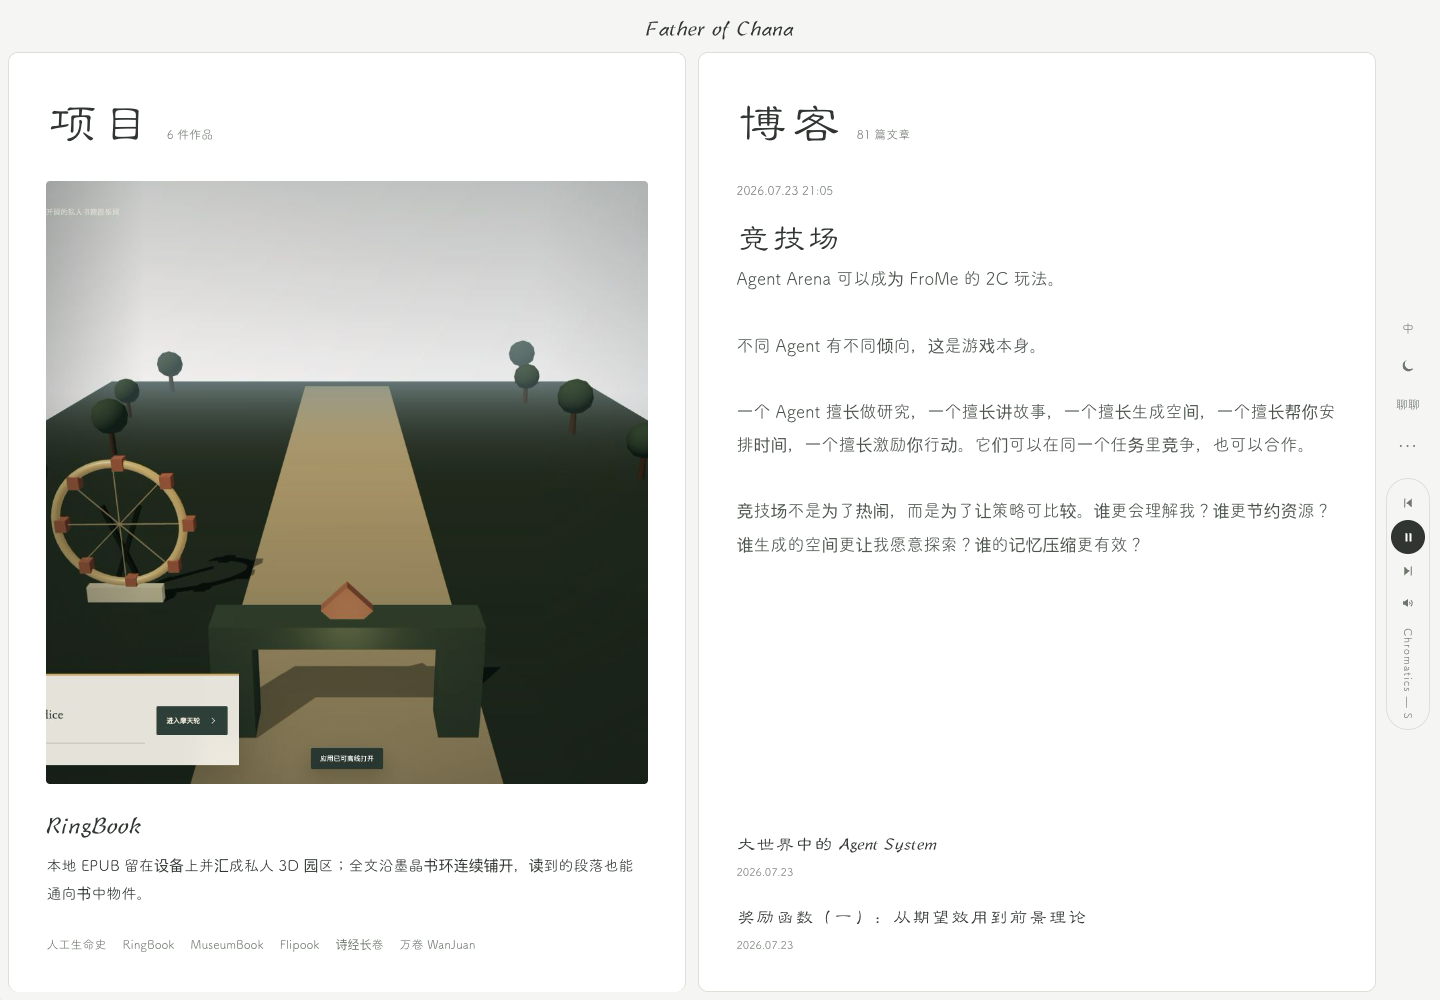
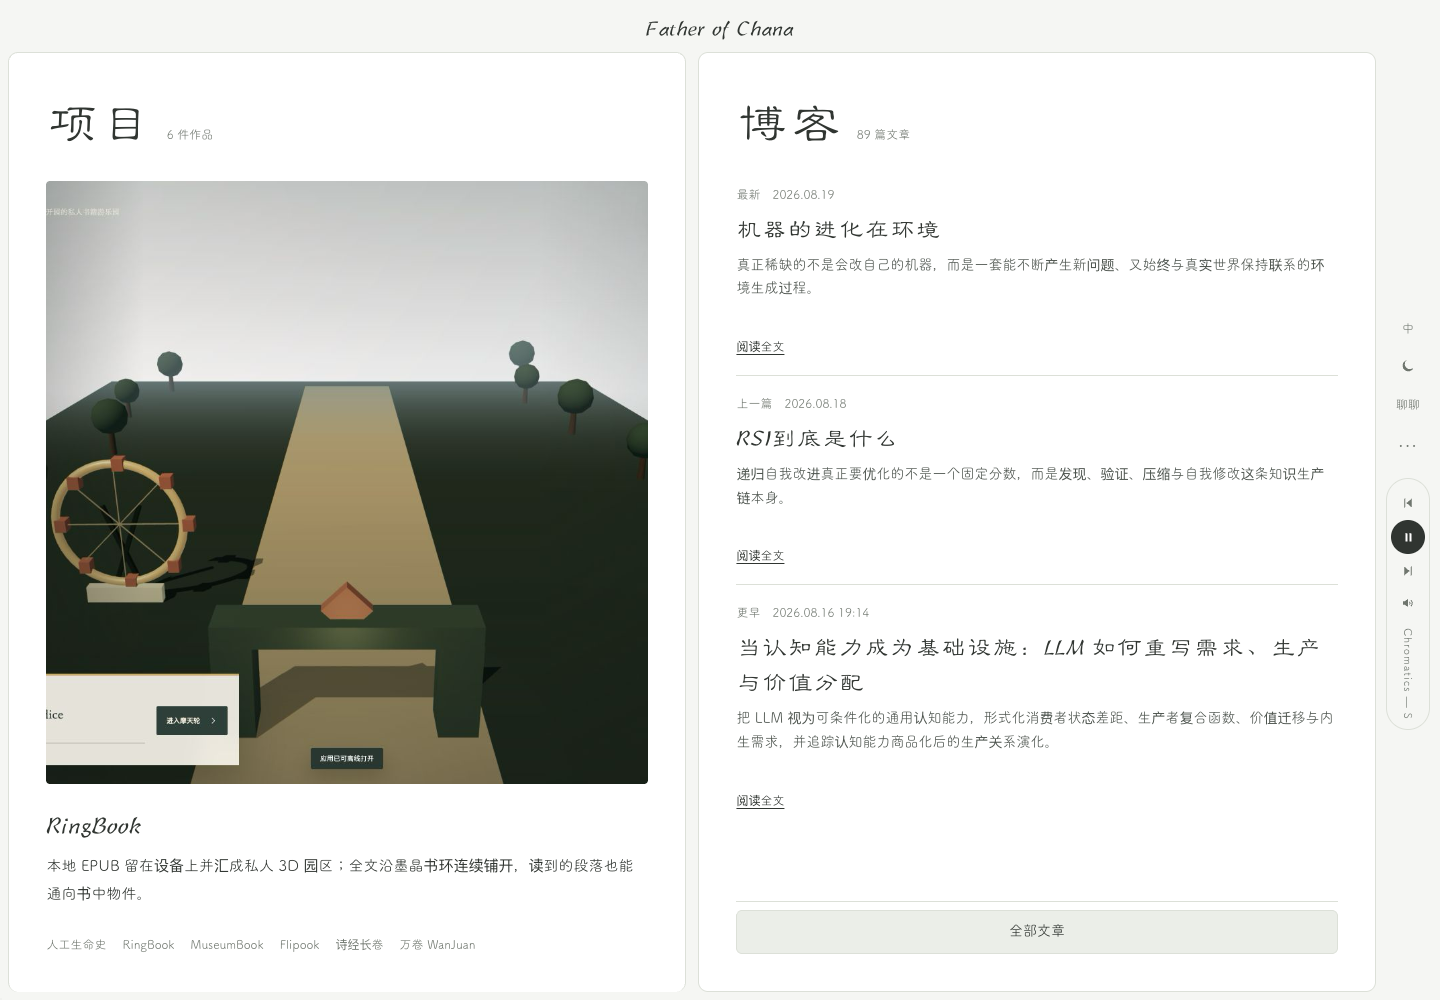
Unify homepage article previews and separate the full index (#20)

diff --git a/src/components/FatherSpread.css b/src/components/FatherSpread.css
@@ -148,9 +148,9 @@ body:has(.father-spread) .site-ai-chat { display: none; }
     text-decoration: none;
     transition: border-color 160ms ease;
 }
-.father-entry:hover { border-color: var(--desk-muted); }
-.father-entry-collection, .father-article-preview { display: block; color: inherit; text-decoration: none; }
-.father-article-preview:hover h3 { text-decoration: underline; text-decoration-thickness: 1px; text-underline-offset: 5px; }
+.father-entry-projects:hover { border-color: var(--desk-muted); }
+.father-entry-articles .father-article-preview { display: block; min-width: 0; color: inherit; text-decoration: none; overflow-wrap: anywhere; }
+.father-entry-articles .father-article-preview:hover h3 { text-decoration: underline; text-decoration-thickness: 1px; text-underline-offset: 5px; }
 .father-entry-heading { display: flex; align-items: baseline; gap: 14px; margin-bottom: 28px; }
 .father-spread .father-entry h2,
 .father-spread .father-entry h3 {
@@ -203,28 +203,79 @@ body:has(.father-spread) .site-ai-chat { display: none; }
     font-size: 12px;
     line-height: 1.6;
 }
-.father-entry-writing { flex: 1; min-height: 0; overflow: hidden; }
-.father-spread .father-entry .father-entry-date {
-    margin: 0 0 12px;
+.father-entry-articles > .father-entry-heading { flex: none; flex-wrap: wrap; }
+.father-entry-article-previews {
+    flex: 1;
+    min-height: 0;
+    min-width: 0;
+    overflow-y: auto;
+    overscroll-behavior-y: contain;
+    padding: 4px;
+    margin-inline: -4px;
+}
+.father-entry-article-list { list-style: none; margin: 0; padding: 0; }
+.father-entry-article-list > li { margin: 0; padding: 18px 0; }
+.father-entry-article-list > li:first-child { padding-top: 0; }
+.father-entry-article-list > li + li { border-top: 1px solid var(--desk-line); }
+.father-entry-article-meta {
+    display: flex;
+    flex-wrap: wrap;
+    align-items: baseline;
+    gap: 3px 12px;
+    margin-bottom: 8px;
     color: var(--desk-muted);
     font-size: 12px;
     line-height: 1.5;
 }
-.father-spread .father-entry-writing h3 { font-size: clamp(25px, 2.4vw, 36px); line-height: 1.5; }
-.father-entry-excerpt {
+.father-entry-article-meta .father-entry-date { white-space: nowrap; }
+.father-spread .father-entry-articles .father-article-preview h3 { font-size: 25px; line-height: 1.4; }
+.father-entry-articles .father-entry-excerpt {
     display: -webkit-box;
     -webkit-box-orient: vertical;
-    -webkit-line-clamp: 10;
-    white-space: pre-line;
-    margin: 22px 0 0;
+    -webkit-line-clamp: 3;
+    min-height: 5.1em;
+    max-height: 5.1em;
+    margin: 8px 0;
     overflow: hidden;
-    font-size: 17px;
-    line-height: 1.95;
+    color: var(--desk-text);
+    font-size: 14px;
+    line-height: 1.7;
 }
-.father-entry-article-list { flex: none; display: grid; gap: 20px; margin-top: 28px; }
-.father-spread .father-entry-article-list h3 { font-size: 19px; line-height: 1.6; }
-.father-spread .father-entry-article-list .father-entry-date { margin: 6px 0 0; font-size: 11px; }
-.father-entry-empty { color: var(--desk-muted); font-size: 15px; }
+/* Keep complete formulas in the renderer, within the excerpt's visual clamp. */
+.father-entry-excerpt .father-math-display { display: inline; overflow: visible; }
+.father-entry-excerpt .katex-display { display: inline; margin: 0; }
+.father-entry-excerpt .katex-display > .katex { display: inline; white-space: normal; }
+.father-entry-read {
+    display: inline-block;
+    color: var(--desk-ink);
+    font-size: 12px;
+    line-height: 1.6;
+    text-decoration: underline;
+    text-decoration-thickness: 1px;
+    text-underline-offset: 3px;
+}
+.father-entry-articles-footer {
+    flex: none;
+    margin-top: 12px;
+    padding-top: 8px;
+    border-top: 1px solid var(--desk-line);
+}
+.father-entry-articles .father-entry-all-articles {
+    display: block;
+    width: 100%;
+    min-height: 44px;
+    padding: 8px 12px;
+    border: 1px solid var(--desk-line);
+    border-radius: 6px;
+    background: var(--desk-hover);
+    color: var(--desk-ink);
+    font-size: 14px;
+    line-height: 1.5;
+    text-align: center;
+    overflow-wrap: anywhere;
+}
+.father-entry-articles .father-entry-all-articles:hover { border-color: var(--desk-muted); }
+.father-entry-empty { color: var(--desk-muted); font-size: 14px; overflow-wrap: anywhere; }
 
 .father-navigation {
     grid-column: 1;
@@ -554,10 +605,7 @@ body:has(.father-spread) .site-ai-chat { display: none; }
     .father-entry { padding: 24px; }
     .father-entry-heading { margin-bottom: 20px; }
     .father-entry-project-preview { gap: 14px; }
-    .father-entry-project-list, .father-entry-article-list { margin-top: 20px; }
-    .father-entry-excerpt { -webkit-line-clamp: 6; font-size: 15px; }
-    .father-entry-article-list { gap: 12px; }
-    .father-spread .father-entry-article-list h3 { font-size: 17px; }
+    .father-entry-project-list { margin-top: 20px; }
     .father-side { gap: 8px; }
     .father-rail { gap: 0; }
     .father-rail button, .father-rail a { min-height: 32px; }
@@ -566,7 +614,6 @@ body:has(.father-spread) .site-ai-chat { display: none; }
 @media (max-width: 1080px) {
     .father-entry { padding: 24px; }
     .father-entry-heading { gap: 10px; }
-    .father-entry-excerpt { font-size: 16px; }
     .father-jumps button { padding-inline: 7px; }
 }
 @media (max-width: 760px) {
@@ -586,12 +633,13 @@ body:has(.father-spread) .site-ai-chat { display: none; }
     .father-spread .father-entry-project-preview h3 { font-size: 22px; }
     .father-entry-project-preview p { -webkit-line-clamp: 5; font-size: 13px; line-height: 1.8; }
     .father-entry-project-list { column-gap: 9px; row-gap: 6px; margin-top: 22px; font-size: 11px; }
-    .father-spread .father-entry .father-entry-date { margin-bottom: 9px; font-size: 10px; }
-    .father-spread .father-entry-writing h3 { font-size: 21px; line-height: 1.55; }
-    .father-entry-excerpt { -webkit-line-clamp: 9; margin-top: 16px; font-size: 13px; line-height: 1.85; }
-    .father-entry-article-list { gap: 16px; margin-top: 22px; }
-    .father-spread .father-entry-article-list h3 { font-size: 14px; line-height: 1.65; }
-    .father-spread .father-entry-article-list .father-entry-date { margin-top: 5px; margin-bottom: 0; font-size: 10px; }
+    .father-entry-article-list > li { padding-block: 14px; }
+    .father-entry-article-meta { gap: 3px 8px; font-size: 10px; }
+    .father-spread .father-entry-articles .father-article-preview h3 { font-size: 19px; line-height: 1.45; }
+    .father-entry-articles .father-entry-excerpt { font-size: 12px; }
+    .father-entry-read { font-size: 11px; }
+    .father-entry-articles-footer { margin-top: 8px; padding-top: 4px; }
+    .father-entry-articles .father-entry-all-articles { font-size: 13px; }
     .father-navigation { gap: 8px; padding: 0 0 4px; }
     .father-jumps button { min-height: 28px; padding: 4px 7px; font-size: 11px; }
     .father-paging { gap: 0; }
@@ -620,8 +668,7 @@ body:has(.father-spread) .site-ai-chat { display: none; }
     .father-entry { padding-inline: 12px; }
     .father-spread .father-entry h2 { font-size: 28px; }
     .father-entry-heading { gap: 5px 7px; }
-    .father-spread .father-entry-writing h3 { font-size: 19px; }
-    .father-entry-article-list { gap: 12px; }
+    .father-spread .father-entry-articles .father-article-preview h3 { font-size: 17px; }
 }
 @media (max-height: 660px) and (max-width: 760px) {
     .father-entry { padding-block: 14px; }
@@ -629,9 +676,6 @@ body:has(.father-spread) .site-ai-chat { display: none; }
     .father-entry-project-preview { grid-template-rows: minmax(70px, 1fr) auto; gap: 12px; }
     .father-entry-project-preview p { -webkit-line-clamp: 3; }
     .father-entry-project-list { margin-top: 14px; row-gap: 3px; }
-    .father-entry-excerpt { -webkit-line-clamp: 4; }
-    .father-entry-article-list { gap: 10px; margin-top: 14px; }
-    .father-spread .father-entry-article-list h3 { display: -webkit-box; -webkit-box-orient: vertical; -webkit-line-clamp: 2; overflow: hidden; }
 }
 @media (hover: none) {
     .father-tools { opacity: 1; pointer-events: auto; }

diff --git a/src/components/FatherLanding.tsx b/src/components/FatherLanding.tsx
@@ -3,23 +3,29 @@ import type { BlogArticle } from "../data/blogArticles";
 import { PERSONAL_PROJECTS } from "../data/fountFields";
 import type { Lang } from "../i18n/lang";
 import { withSiteParams } from "../lib/lang-url";
+import { MathText } from "./MathText";
 
 type FatherLandingProps = {
   lang: Lang;
   articles: BlogArticle[];
   onOpen: (surface: "projects" | "articles") => void;
   onOpenArticle: (articleId: string) => void;
+  onOpenIndex: () => void;
 };
 
-export function FatherLanding({ lang, articles, onOpen, onOpenArticle }: FatherLandingProps) {
+function articleExcerpt(article: BlogArticle, lang: Lang) {
+  if (article.summary[lang].trim()) return article.summary[lang];
+  for (const block of article.blocks ?? []) {
+    if ((block.type === "paragraph" || block.type === "callout") && block.text[lang].trim()) {
+      return block.text[lang];
+    }
+  }
+  return article.paragraphs.find((paragraph) => paragraph[lang].trim())?.[lang] ?? "";
+}
+
+export function FatherLanding({ lang, articles, onOpen, onOpenArticle, onOpenIndex }: FatherLandingProps) {
   const project = PERSONAL_PROJECTS.find((field) => field.key === "ringbook") ?? PERSONAL_PROJECTS[0];
-  const article = articles[0];
-  const previewParagraphs = article?.blocks?.length
-    ? article.blocks.flatMap((block) =>
-      block.type === "paragraph" || block.type === "callout" ? [block.text[lang]] : [],
-    )
-    : article?.paragraphs.map((paragraph) => paragraph[lang]) ?? [];
-  const excerpt = previewParagraphs.slice(0, 4).join("\n\n") || article?.summary[lang] || "";
+  const chronology = lang === "zh" ? ["最新", "上一篇", "更早"] : ["Latest", "Previous", "Earlier"];
 
   function open(event: MouseEvent<HTMLAnchorElement>, surface: "projects" | "articles") {
     if (event.defaultPrevented || event.button !== 0 || event.metaKey || event.ctrlKey || event.shiftKey || event.altKey) return;
@@ -65,31 +71,36 @@ export function FatherLanding({ lang, articles, onOpen, onOpenArticle }: FatherL
       </a>
 
       <section className="father-entry father-entry-articles" aria-labelledby="father-entry-articles-title">
-        <a className="father-entry-collection" href={withSiteParams("/blog", { lang })} onClick={(event) => open(event, "articles")}>
-          <div className="father-entry-heading">
-            <h2 id="father-entry-articles-title">{lang === "zh" ? "博客" : "Blog"}</h2>
-            <span className="father-entry-count">{articles.length}{lang === "zh" ? " 篇文章" : " articles"}</span>
-          </div>
-        </a>
-        {article ? (
-          <>
-            <a className="father-entry-writing father-article-preview" href={articleHref(article.id)} onClick={(event) => openArticle(event, article.id)}>
-              <p className="father-entry-date">{article.date}</p>
-              <h3>{article.title[lang]}</h3>
-              <p className="father-entry-excerpt">{excerpt}</p>
-            </a>
-            <div className="father-entry-article-list">
-              {articles.slice(1, 3).map((item) => (
-                <a className="father-article-preview" href={articleHref(item.id)} key={item.id} onClick={(event) => openArticle(event, item.id)}>
-                  <h3>{item.title[lang]}</h3>
-                  <p className="father-entry-date">{item.date}</p>
-                </a>
+        <div className="father-entry-heading">
+          <h2 id="father-entry-articles-title">{lang === "zh" ? "博客" : "Blog"}</h2>
+          <span className="father-entry-count">{articles.length}{lang === "zh" ? " 篇文章" : " articles"}</span>
+        </div>
+        <div className="father-entry-article-previews">
+          {articles.length ? (
+            <ol className="father-entry-article-list">
+              {articles.slice(0, 3).map((article, index) => (
+                <li key={article.id}>
+                  <a className="father-article-preview" href={articleHref(article.id)} onClick={(event) => openArticle(event, article.id)}>
+                    <div className="father-entry-article-meta">
+                      <span>{chronology[index]}</span>
+                      <span className="father-entry-date">{article.date}</span>
+                    </div>
+                    <h3>{article.title[lang]}</h3>
+                    <p className="father-entry-excerpt"><MathText text={articleExcerpt(article, lang)} /></p>
+                    <span className="father-entry-read">{lang === "zh" ? "阅读全文" : "Read article"}</span>
+                  </a>
+                </li>
               ))}
-            </div>
-          </>
-        ) : (
-          <p className="father-entry-empty">{lang === "zh" ? "还没有已发布的文章" : "No published articles yet"}</p>
-        )}
+            </ol>
+          ) : (
+            <p className="father-entry-empty">{lang === "zh" ? "还没有已发布的文章" : "No published articles yet"}</p>
+          )}
+        </div>
+        <footer className="father-entry-articles-footer">
+          <button className="father-entry-all-articles" type="button" aria-haspopup="dialog" onClick={onOpenIndex}>
+            {lang === "zh" ? "全部文章" : "All articles"}
+          </button>
+        </footer>
       </section>
     </div>
   );

diff --git a/src/components/FatherSpread.tsx b/src/components/FatherSpread.tsx
@@ -1,4 +1,3 @@
-import katex from "katex";
 import { memo, useCallback, useEffect, useMemo, useRef, useState, type ComponentPropsWithoutRef, type CSSProperties, type MouseEvent } from "react";
 import { flushSync } from "react-dom";
 import {
@@ -11,6 +10,7 @@ import type { Lang } from "../i18n/lang";
 import { withSiteParams } from "../lib/lang-url";
 import { CONTACT_EMAIL, SHELL_COPY, siteTabHref } from "../lib/site-shell";
 import { FatherLanding } from "./FatherLanding";
+import { MathText } from "./MathText";
 import { FountMusicPlayer } from "./FountMusicPlayer";
 import { SocialLinks } from "./SocialLinks";
 import { ThemeModeIcon } from "./ThemeModeIcon";
@@ -51,29 +51,6 @@ function entryFallback(entry: DeskEntry, lang: Lang) {
   return entry.kind === "project"
     ? entry.field.summary[lang]
     : entry.article.summary[lang] || entry.article.title[lang];
-}
-
-function MathText({ text }: { text: string }) {
-  const segments = text.split(/(\$\$[\s\S]+?\$\$|\$(?:\\.|[^$\n])+\$)/g);
-  return segments.map((segment, index) => {
-    const displayMode = segment.startsWith("$$") && segment.endsWith("$$");
-    const inlineMode = !displayMode && segment.startsWith("$") && segment.endsWith("$");
-    if (!displayMode && !inlineMode) return segment;
-    const expression = displayMode ? segment.slice(2, -2) : segment.slice(1, -1);
-    return (
-      <span
-        key={`math-${index}`}
-        className={displayMode ? "father-math-display" : "father-math"}
-        dangerouslySetInnerHTML={{
-          __html: katex.renderToString(expression, {
-            displayMode,
-            throwOnError: false,
-            trust: false,
-          }),
-        }}
-      />
-    );
-  });
 }
 
 function articleBlocks(article: BlogArticle): BlogContentBlock[] {
@@ -353,6 +330,14 @@ export function FatherSpread({
     });
   }
 
+  function openIndex() {
+    const dialog = indexRef.current;
+    if (!dialog?.isConnected) return;
+    setIndexQuery("");
+    if (!dialog.open) dialog.showModal();
+    indexInputRef.current?.focus({ preventScroll: true });
+  }
+
   function openArticle(articleId: string) {
     const index = articleEntries.findIndex((entry) => entry.kind === "article" && entry.article.id === articleId);
     if (index < 0) return;
@@ -428,7 +413,7 @@ export function FatherSpread({
         </header>
 
         {surface === "home" ? (
-          <FatherLanding lang={lang} articles={articles} onOpen={openSurface} onOpenArticle={openArticle} />
+          <FatherLanding lang={lang} articles={articles} onOpen={openSurface} onOpenArticle={openArticle} onOpenIndex={openIndex} />
         ) : (
           <>
             <nav className="father-navigation" aria-label={lang === "zh" ? "卡片导航" : "Card navigation"}>
@@ -442,10 +427,7 @@ export function FatherSpread({
                     {entryTitle(entry, lang)}
                   </button>
                 )) : (
-                  <button className="father-index-trigger" type="button" aria-haspopup="dialog" onClick={() => {
-                    indexRef.current?.showModal();
-                    indexInputRef.current?.focus();
-                  }}>
+                  <button className="father-index-trigger" type="button" aria-haspopup="dialog" onClick={openIndex}>
                     {lang === "zh" ? "文章目录" : "All articles"}
                     <span>{entries.length}</span>
                   </button>

diff --git a/src/components/MathText.tsx b/src/components/MathText.tsx
@@ -1,0 +1,24 @@
+import katex from "katex";
+
+export function MathText({ text }: { text: string }) {
+  const segments = text.split(/(\$\$[\s\S]+?\$\$|\$(?:\\.|[^$\n])+\$)/g);
+  return segments.map((segment, index) => {
+    const displayMode = segment.startsWith("$$") && segment.endsWith("$$");
+    const inlineMode = !displayMode && segment.startsWith("$") && segment.endsWith("$");
+    if (!displayMode && !inlineMode) return segment;
+    const expression = displayMode ? segment.slice(2, -2) : segment.slice(1, -1);
+    return (
+      <span
+        key={`math-${index}`}
+        className={displayMode ? "father-math-display" : "father-math"}
+        dangerouslySetInnerHTML={{
+          __html: katex.renderToString(expression, {
+            displayMode,
+            throwOnError: false,
+            trust: false,
+          }),
+        }}
+      />
+    );
+  });
+}
